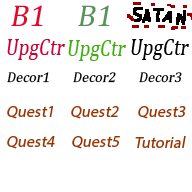
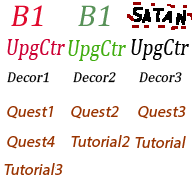
0.8.61.4 Tutorial Logic 1st pass

Changed region(s): [[0.375, 0.6875, 0.6875, 0.7812], [0.0, 0.8438, 0.3438, 0.9375]]

diff --git a/Hearts Of Greed/Motor2D/QuestManager.cpp b/Hearts Of Greed/Motor2D/QuestManager.cpp
@@ -53,7 +53,7 @@ void ModuleQuestManager::LoadQuests(pugi::xml_node& node)
 
 	for (pugi::xml_node iterator = node.first_child(); iterator != NULL; iterator = iterator.next_sibling(), i++)
 	{
-		questInfoVector.push_back(QuestInfo(iterator.attribute("reward").as_int(), iterator.attribute("id").as_int()));
+		questInfoVector.push_back(QuestInfo(iterator.attribute("reward").as_int(), iterator.attribute("id").as_int(), iterator.attribute("noCombat").as_bool(false)));
 
 		for (pugi::xml_node iterator2 = iterator.first_child().first_child(); iterator2 != NULL; iterator2 = iterator2.next_sibling())
 		{
@@ -168,8 +168,8 @@ void ModuleQuestManager::QuestStarted(int questId)
 	case 0:
 		app->dialogManager->PushInput(DIALOG_INPUT::TUTORIAL_START);
 		questInfoVector[questId].SetDialogInput((int)DIALOG_INPUT::TUTORIAL_END);
-		character1 = ENTITY_TYPE::HERO_GATHERER;
-		character2 = ENTITY_TYPE::UNKNOWN;
+		character1 = ENTITY_TYPE::HQ_COMANDER;
+		character2 = ENTITY_TYPE::HERO_GATHERER;
 		break;
 
 	case 1:
@@ -203,8 +203,15 @@ void ModuleQuestManager::QuestStarted(int questId)
 	case 5:
 		app->dialogManager->PushInput(DIALOG_INPUT::TUTORIAL_START2);
 		questInfoVector[questId].SetDialogInput((int)DIALOG_INPUT::TUTORIAL_END2);
-		character1 = ENTITY_TYPE::HERO_GATHERER;
-		character2 = ENTITY_TYPE::UNKNOWN;
+		character1 = ENTITY_TYPE::HQ_COMANDER;
+		character2 = ENTITY_TYPE::HERO_GATHERER;
+		break;
+
+	case 6:
+		//app->dialogManager->PushInput(DIALOG_INPUT::TUTORIAL_START3);
+		//questInfoVector[questId].SetDialogInput((int)DIALOG_INPUT::TUTORIAL_END3);
+		character1 = ENTITY_TYPE::HQ_COMANDER;
+		character2 = ENTITY_TYPE::HERO_GATHERER;
 		break;
 
 	default:
@@ -226,7 +233,7 @@ void ModuleQuestManager::CheckEntityDead(Entity* entity)
 			if (questInfoVector[i].CheckQuestStatus(entity))
 			{
 				app->eventManager->GenerateEvent(EVENT_ENUM::FINISH_QUEST, EVENT_ENUM::NULL_EVENT);
-				
+
 				if (i == 5)	// Tutorial 2 ID
 				{
 					app->eventManager->GenerateEvent(EVENT_ENUM::DAY_START, EVENT_ENUM::NULL_EVENT);
@@ -247,7 +254,7 @@ bool ModuleQuestManager::Load(pugi::xml_node& data)
 
 	for (pugi::xml_node iterator = data.first_child(); iterator != NULL; iterator = iterator.next_sibling(), i++)
 	{
-		questInfoVector.push_back(QuestInfo(iterator.attribute("reward").as_int(), iterator.attribute("id").as_int(), iterator.attribute("active").as_bool()));
+		questInfoVector.push_back(QuestInfo(iterator.attribute("reward").as_int(), iterator.attribute("id").as_int(), iterator.attribute("noCombat").as_bool(), iterator.attribute("active").as_bool()));
 		questInfoVector[i].SetDialogInput(iterator.attribute("dialogInput").as_int());
 
 		for (pugi::xml_node iterator2 = iterator.first_child().first_child(); iterator2 != NULL; iterator2 = iterator2.next_sibling())
@@ -261,7 +268,6 @@ bool ModuleQuestManager::Load(pugi::xml_node& data)
 		Quest* qst = (Quest*)app->entityManager->AddEntity(ENTITY_TYPE::QUEST, iterator.attribute("questX").as_float(), iterator.attribute("questY").as_float());
 		qst->SetId(iterator.attribute("questID").as_int());
 		app->questManager->AddQuest(qst);
-
 	}
 
 	character1 = (ENTITY_TYPE)data.attribute("character1").as_int();
@@ -282,8 +288,8 @@ bool ModuleQuestManager::Save(pugi::xml_node& data) const
 		questInfoVector[i].Save(iterator);
 	}
 
-	data.append_attribute("character1") = (int) character1;
-	data.append_attribute("character2") = (int) character2;
+	data.append_attribute("character1") = (int)character1;
+	data.append_attribute("character2") = (int)character2;
 
 	return true;
 }
@@ -291,13 +297,14 @@ bool ModuleQuestManager::Save(pugi::xml_node& data) const
 
 //Struct QuestInfo
 
-QuestInfo::QuestInfo(int resourcesReward, int id, bool active) :
+QuestInfo::QuestInfo(int resourcesReward, int id, bool noCombat, bool active) :
 
 	resourcesReward(resourcesReward),
 	id(id),
 	dialogInput(-1),
 
-	active(active)
+	active(active),
+	noCombat(noCombat)
 {}
 
 
@@ -348,6 +355,11 @@ bool QuestInfo::CheckQuestStatus(Entity* entity)
 {
 	int numberEntitys = questEntitysVector.size();
 
+	if (questEntitysVector.empty() && this->noCombat == true)
+	{
+		WinQuest();
+	}
+
 	for (int i = 0; i < numberEntitys; i++)
 	{
 		if (questEntitysVector[i] == entity)
@@ -360,13 +372,13 @@ bool QuestInfo::CheckQuestStatus(Entity* entity)
 				return false;
 			}
 
-			else if ((questEntitysVector.size() == 1 && questEntitysVector[0]->GetAlignment() == ENTITY_ALIGNEMENT::PLAYER)|| questEntitysVector.size() == 0) //Only remains the hero or all enemies are dead
+			else if ((questEntitysVector.size() == 1 && questEntitysVector[0]->GetAlignment() == ENTITY_ALIGNEMENT::PLAYER) || questEntitysVector.size() == 0) //Only remains the hero or all enemies are dead
 			{
 				questEntitysVector[0]->missionEntity = false;
 				WinQuest();
 				return true;
 			}
-			
+
 		}
 	}
 
@@ -396,7 +408,9 @@ void QuestInfo::WinQuest()
 	GiveReward();
 	app->dialogManager->PushInput((DIALOG_INPUT)dialogInput);
 
-	app->eventManager->GenerateEvent(EVENT_ENUM::FINISH_QUEST, EVENT_ENUM::NULL_EVENT);
+	if (noCombat == false)
+		app->eventManager->GenerateEvent(EVENT_ENUM::FINISH_QUEST, EVENT_ENUM::NULL_EVENT);
+
 	app->eventManager->GenerateEvent(EVENT_ENUM::CREATE_DIALOG_WINDOW, EVENT_ENUM::NULL_EVENT);
 }
 
@@ -433,6 +447,7 @@ void QuestInfo::SetDialogInput(int input)
 bool QuestInfo::Save(pugi::xml_node& node) const
 {
 	node.append_attribute("active") = active;
+	node.append_attribute("noCombat") = noCombat;
 	node.append_attribute("id") = id;
 
 	node.append_attribute("dialogInput") = dialogInput;
@@ -485,5 +500,3 @@ ENTITY_TYPE ModuleQuestManager::RequestCharacter2()
 {
 	return character2;
 }
-
-

diff --git a/Hearts Of Greed/Motor2D/Map.cpp b/Hearts Of Greed/Motor2D/Map.cpp
@@ -526,12 +526,14 @@ bool ModuleMap::LoadLayer(pugi::xml_node& layer_node, MapLayer* layer)
 			}
 		}
 	}*/
-	if (layer->name == P2SString("BuildingGeneration")) {
+	if (layer->name == P2SString("BuildingGeneration")) 
+	{
 
 		for (int i = 0; i < layer->width * layer->height; i++)
 		{
 
-			if (layer->gid[i] > 0) {
+			if (layer->gid[i] > 0) 
+			{
 
 				SDL_Rect colliderRectAux = RectFromTileId(layer->gid[i], GetTilesetFromTileId(layer->gid[i]));
 
@@ -632,6 +634,12 @@ bool ModuleMap::LoadLayer(pugi::xml_node& layer_node, MapLayer* layer)
 				case 250 + 14:
 					qst = (Quest*)app->entityManager->AddEntity(ENTITY_TYPE::QUEST, colliderRectAux.x, colliderRectAux.y);
 					qst->SetId(0);
+					app->questManager->AddQuest(qst);
+					break;
+
+				case 250 + 15:
+					qst = (Quest*)app->entityManager->AddEntity(ENTITY_TYPE::QUEST, colliderRectAux.x, colliderRectAux.y);
+					qst->SetId(6);
 					app->questManager->AddQuest(qst);
 					break;
 

diff --git a/Hearts Of Greed/Motor2D/Quest.cpp b/Hearts Of Greed/Motor2D/Quest.cpp
@@ -41,7 +41,8 @@ Quest::~Quest()
 void Quest::Draw(float dt)
 {
 
-	if (this->myState == QUEST_STATE::INACTIVE) {
+	if (this->myState == QUEST_STATE::INACTIVE) 
+	{
 		app->render->Blit(texture, position.x, position.y, 0, false, true, 0, 255, 255, 255, 1.0f);
 	}
 	// blit my particle effect here
@@ -53,6 +54,8 @@ void Quest::OnCollision(Collider* collider)
 	this->myState = QUEST_STATE::ACTIVE;
 
 	app->eventManager->GenerateEvent(EVENT_ENUM::ENTITY_DEAD, EVENT_ENUM::NULL_EVENT);
+
+
 	
 	app->questManager->QuestStarted(id);
 

diff --git a/Hearts Of Greed/Motor2D/QuestManager.h b/Hearts Of Greed/Motor2D/QuestManager.h
@@ -15,7 +15,7 @@ struct QuestInfo
 {
 public:
 
-	QuestInfo(int resourcesReward, int id, bool active = false);
+	QuestInfo(int resourcesReward, int id, bool noCombat = false, bool active = false);
 	~QuestInfo();
 
 	void StartQuest();
@@ -37,6 +37,7 @@ private:
 
 public:
 	bool active;
+	bool noCombat;
 
 
 private:
